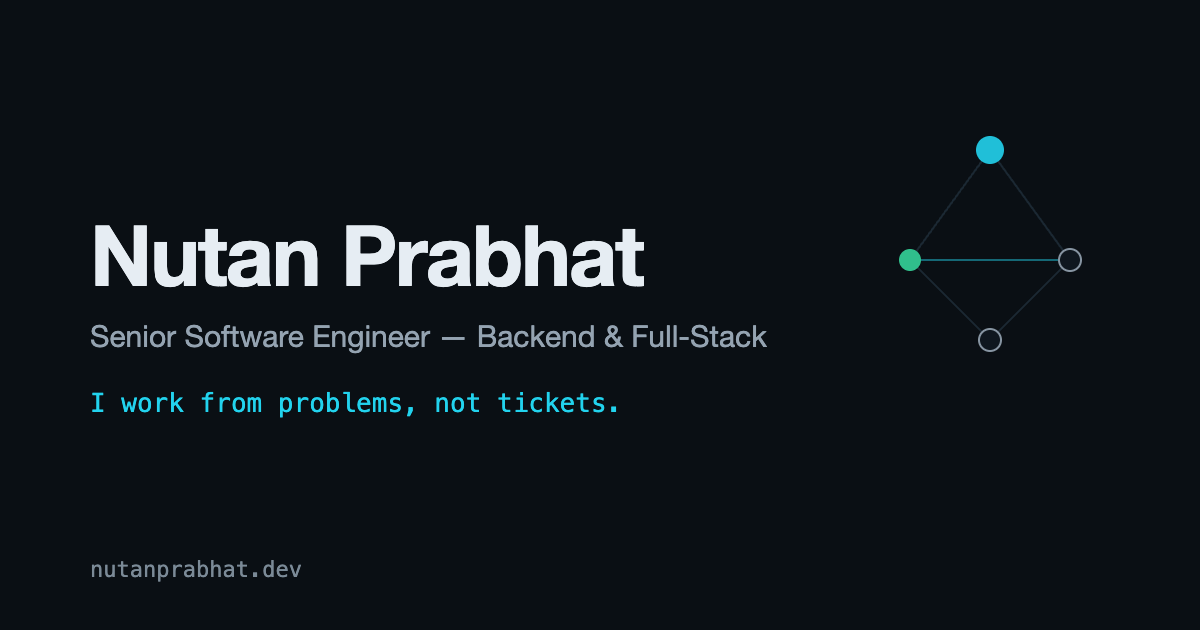
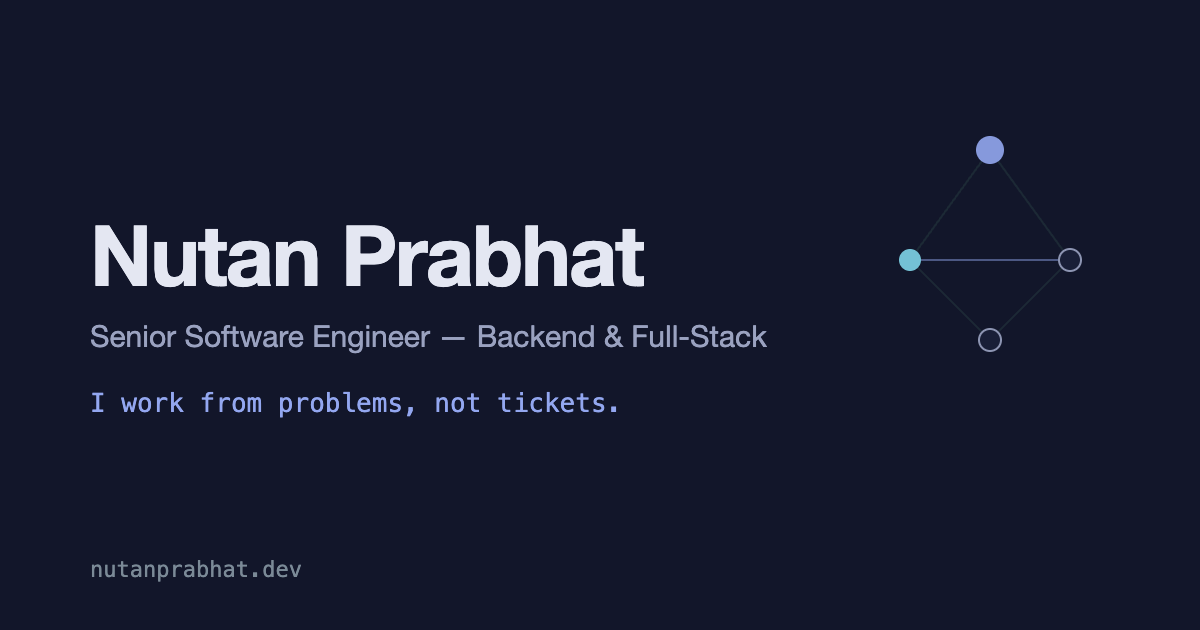
Repaint the site indigo, and let the asset builders read the palette
The near-black ground with a bright cyan accent is the look generated
portfolios default to; it appears regardless of subject, which is what
makes it read as a default rather than a choice. Indigo moves the ground
to an actual colour, which is the part that does the work — the default
needs the near-black. The accent is a soft periwinkle rather than an
acid, and the second tone keeps a cyan note so the graph and the edge
trace still read as the same site.

It also suits the content better than the alternatives tried: 34 of the
43 tech marks carry cool brand colours — React, TypeScript, Postgres,
MySQL — and they sit on indigo instead of fighting it, which is what
ruled out the warm directions.

The favicon and Open Graph builders each kept their own copy of the
palette, so a repaint meant editing three places and the first sign of a
miss would have been a favicon that no longer matched the site. They now
parse the --c-* block out of index.css. Those scripts run in Node with no
CSS engine behind them, so they cannot resolve var() — reading the
stylesheet keeps one source of truth without making the build carry one.

Both assets regenerated; the icon hrefs re-stamp themselves, so returning
visitors get the new mark rather than the cached cyan one.

Changed region(s): [[0.0617, 0.6333, 0.5242, 0.6635], [0.74, 0.3921, 0.8633, 0.4524], [0.8017, 0.2111, 0.8325, 0.2714]]

diff --git a/src/styles/index.css b/src/styles/index.css
@@ -19,15 +19,15 @@
        <alpha-value> placeholder. These nine values are the whole theme:
        every colour in the site, including the SVG topology graph and the
        canvas particle field, reads from them. */
-    --c-bg: 10 15 20;
-    --c-panel: 16 24 32;
-    --c-raised: 20 30 40;
-    --c-ink: 230 237 243;
-    --c-muted: 148 163 177;
-    --c-faint: 123 138 151;
-    --c-accent: 34 211 238;
-    --c-accent2: 52 211 153;
-    --c-line: 29 43 54;
+    --c-bg: 18 22 42;
+    --c-panel: 26 32 56;
+    --c-raised: 34 41 68;
+    --c-ink: 228 231 242;
+    --c-muted: 154 162 192;
+    --c-faint: 124 133 166;
+    --c-accent: 147 167 240;
+    --c-accent2: 127 212 232;
+    --c-line: 42 50 82;
 
     /* Shared motion tokens. Named once so retuning the feel of the site is one
        edit rather than a find-and-replace, and so the three speeds stay

diff --git a/index.html b/index.html
@@ -11,9 +11,9 @@
       time from data/resume.json + data/assets.json (see siteIdentity() in
       vite.config.ts), so forking this site is a JSON-only edit.
     -->
-    <link rel="icon" type="image/svg+xml" href="/favicon.svg?v=11bf2e02" />
-    <link rel="icon" type="image/png" sizes="180x180" href="/favicon.png?v=11bf2e02" />
-    <link rel="apple-touch-icon" href="/favicon.png?v=11bf2e02" />
+    <link rel="icon" type="image/svg+xml" href="/favicon.svg?v=efd43849" />
+    <link rel="icon" type="image/png" sizes="180x180" href="/favicon.png?v=efd43849" />
+    <link rel="apple-touch-icon" href="/favicon.png?v=efd43849" />
     <link rel="preconnect" href="https://cdn.jsdelivr.net" crossorigin />
     <meta property="og:type" content="website" />
     <meta name="twitter:card" content="summary_large_image" />
